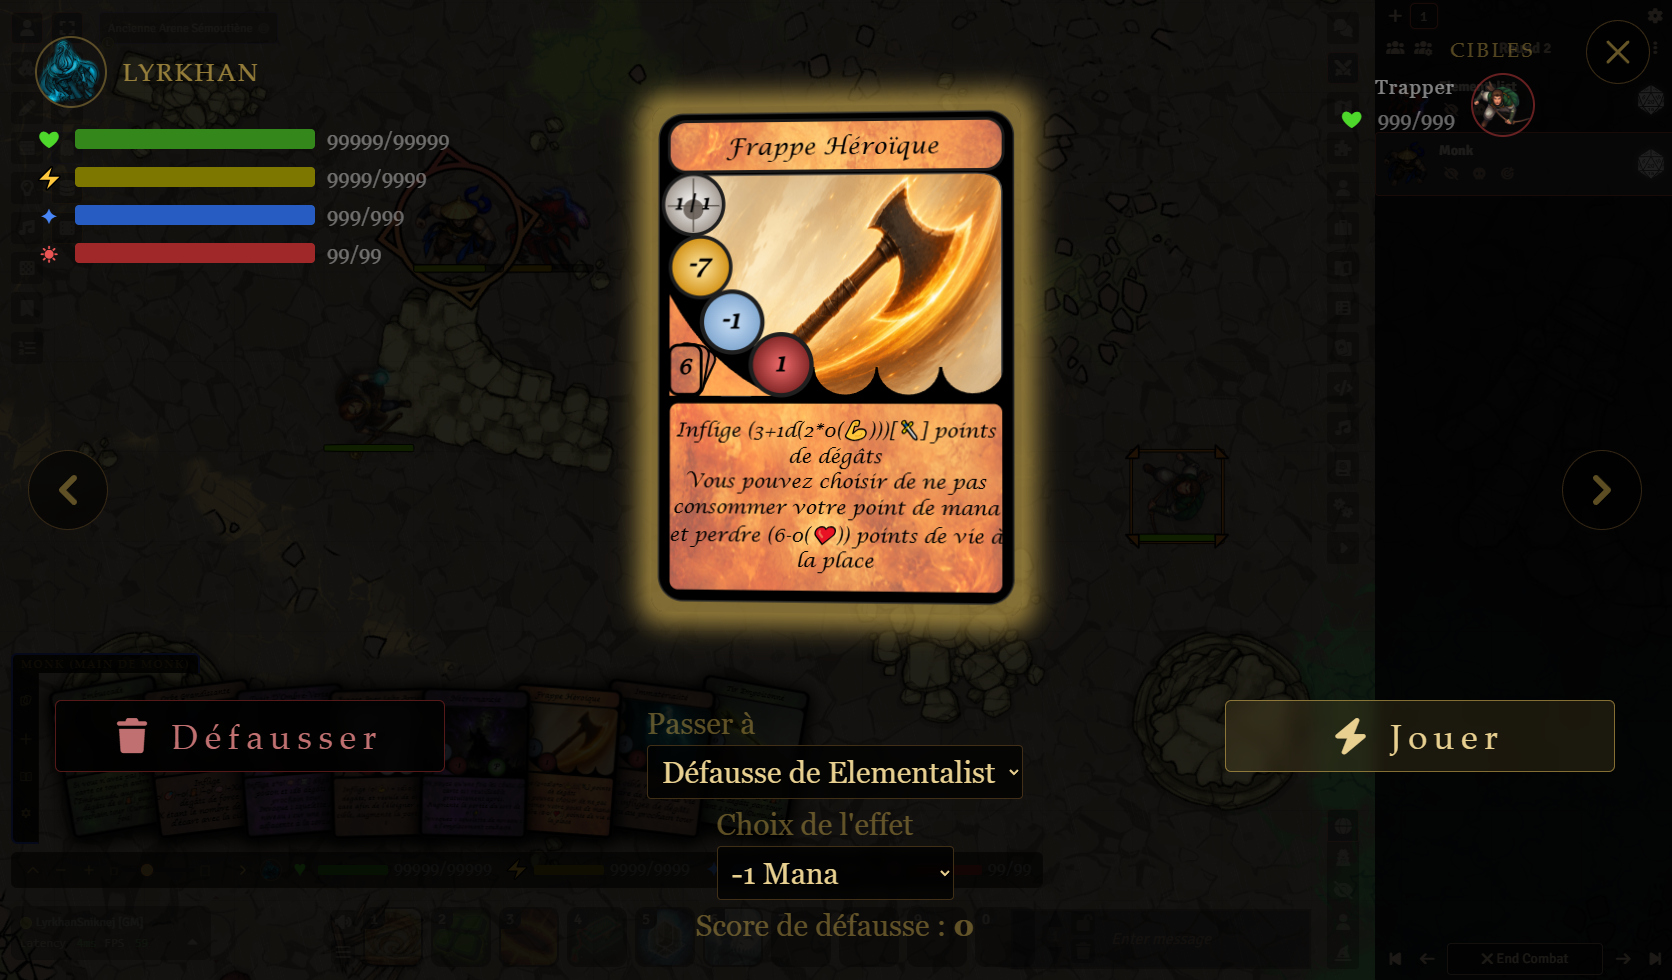
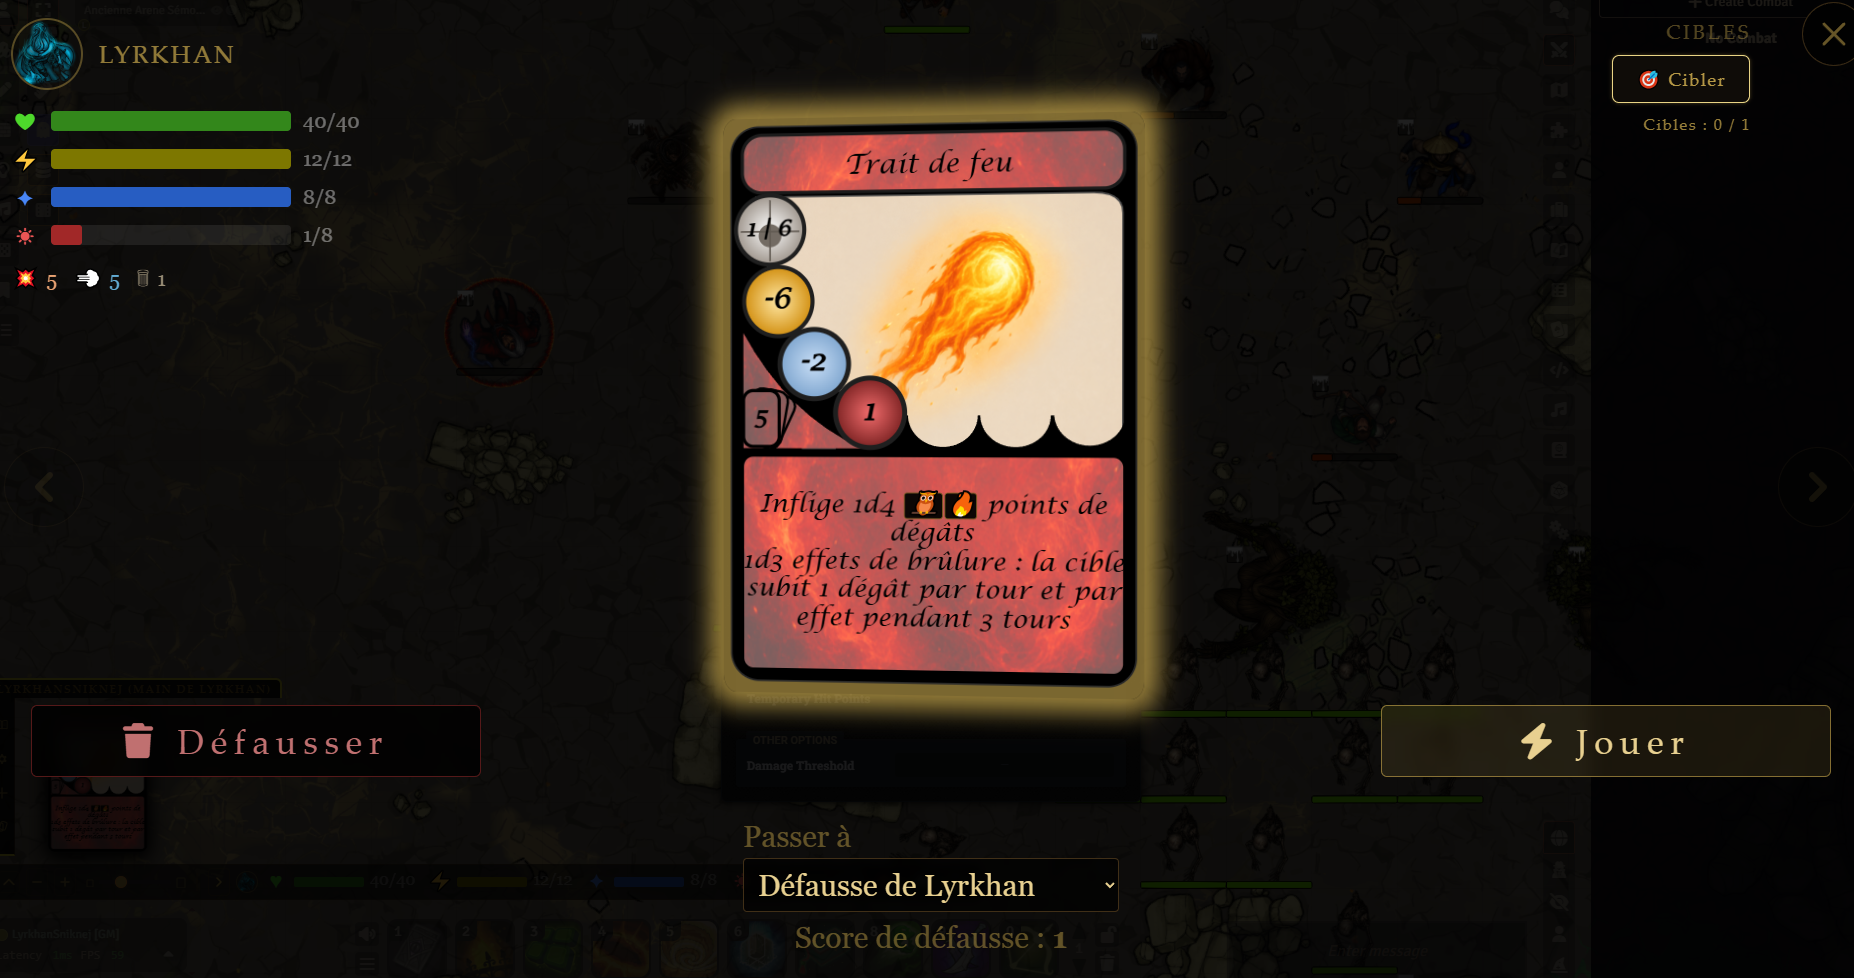
chore: 3.0.0: Update README.md

diff --git a/README.md b/README.md
@@ -1,4 +1,3 @@
-![img.png](images/doc/banner_FQ.jpg)
 # FQ Card Engine for FoundryVTT
 
 The FQ Card Engine is a combat system for Final Quest 8 combined with DnD5e rules.
@@ -85,6 +84,9 @@ For using cards that affects other target than ypu, you must target at least one
 All actions are displayed on chat.
 After playing a card, automatic roll, effect, damage, heal are applied, also critical and evasion rolls.
 ![img.png](images/doc/chat-roll.png)
+
+The module provides also a special ui for creating your own deck with your Spellbook
+![img.png](images/doc/spellbook.png)
 
 ## Quick Rule Books:
 ### New resources for actors:
